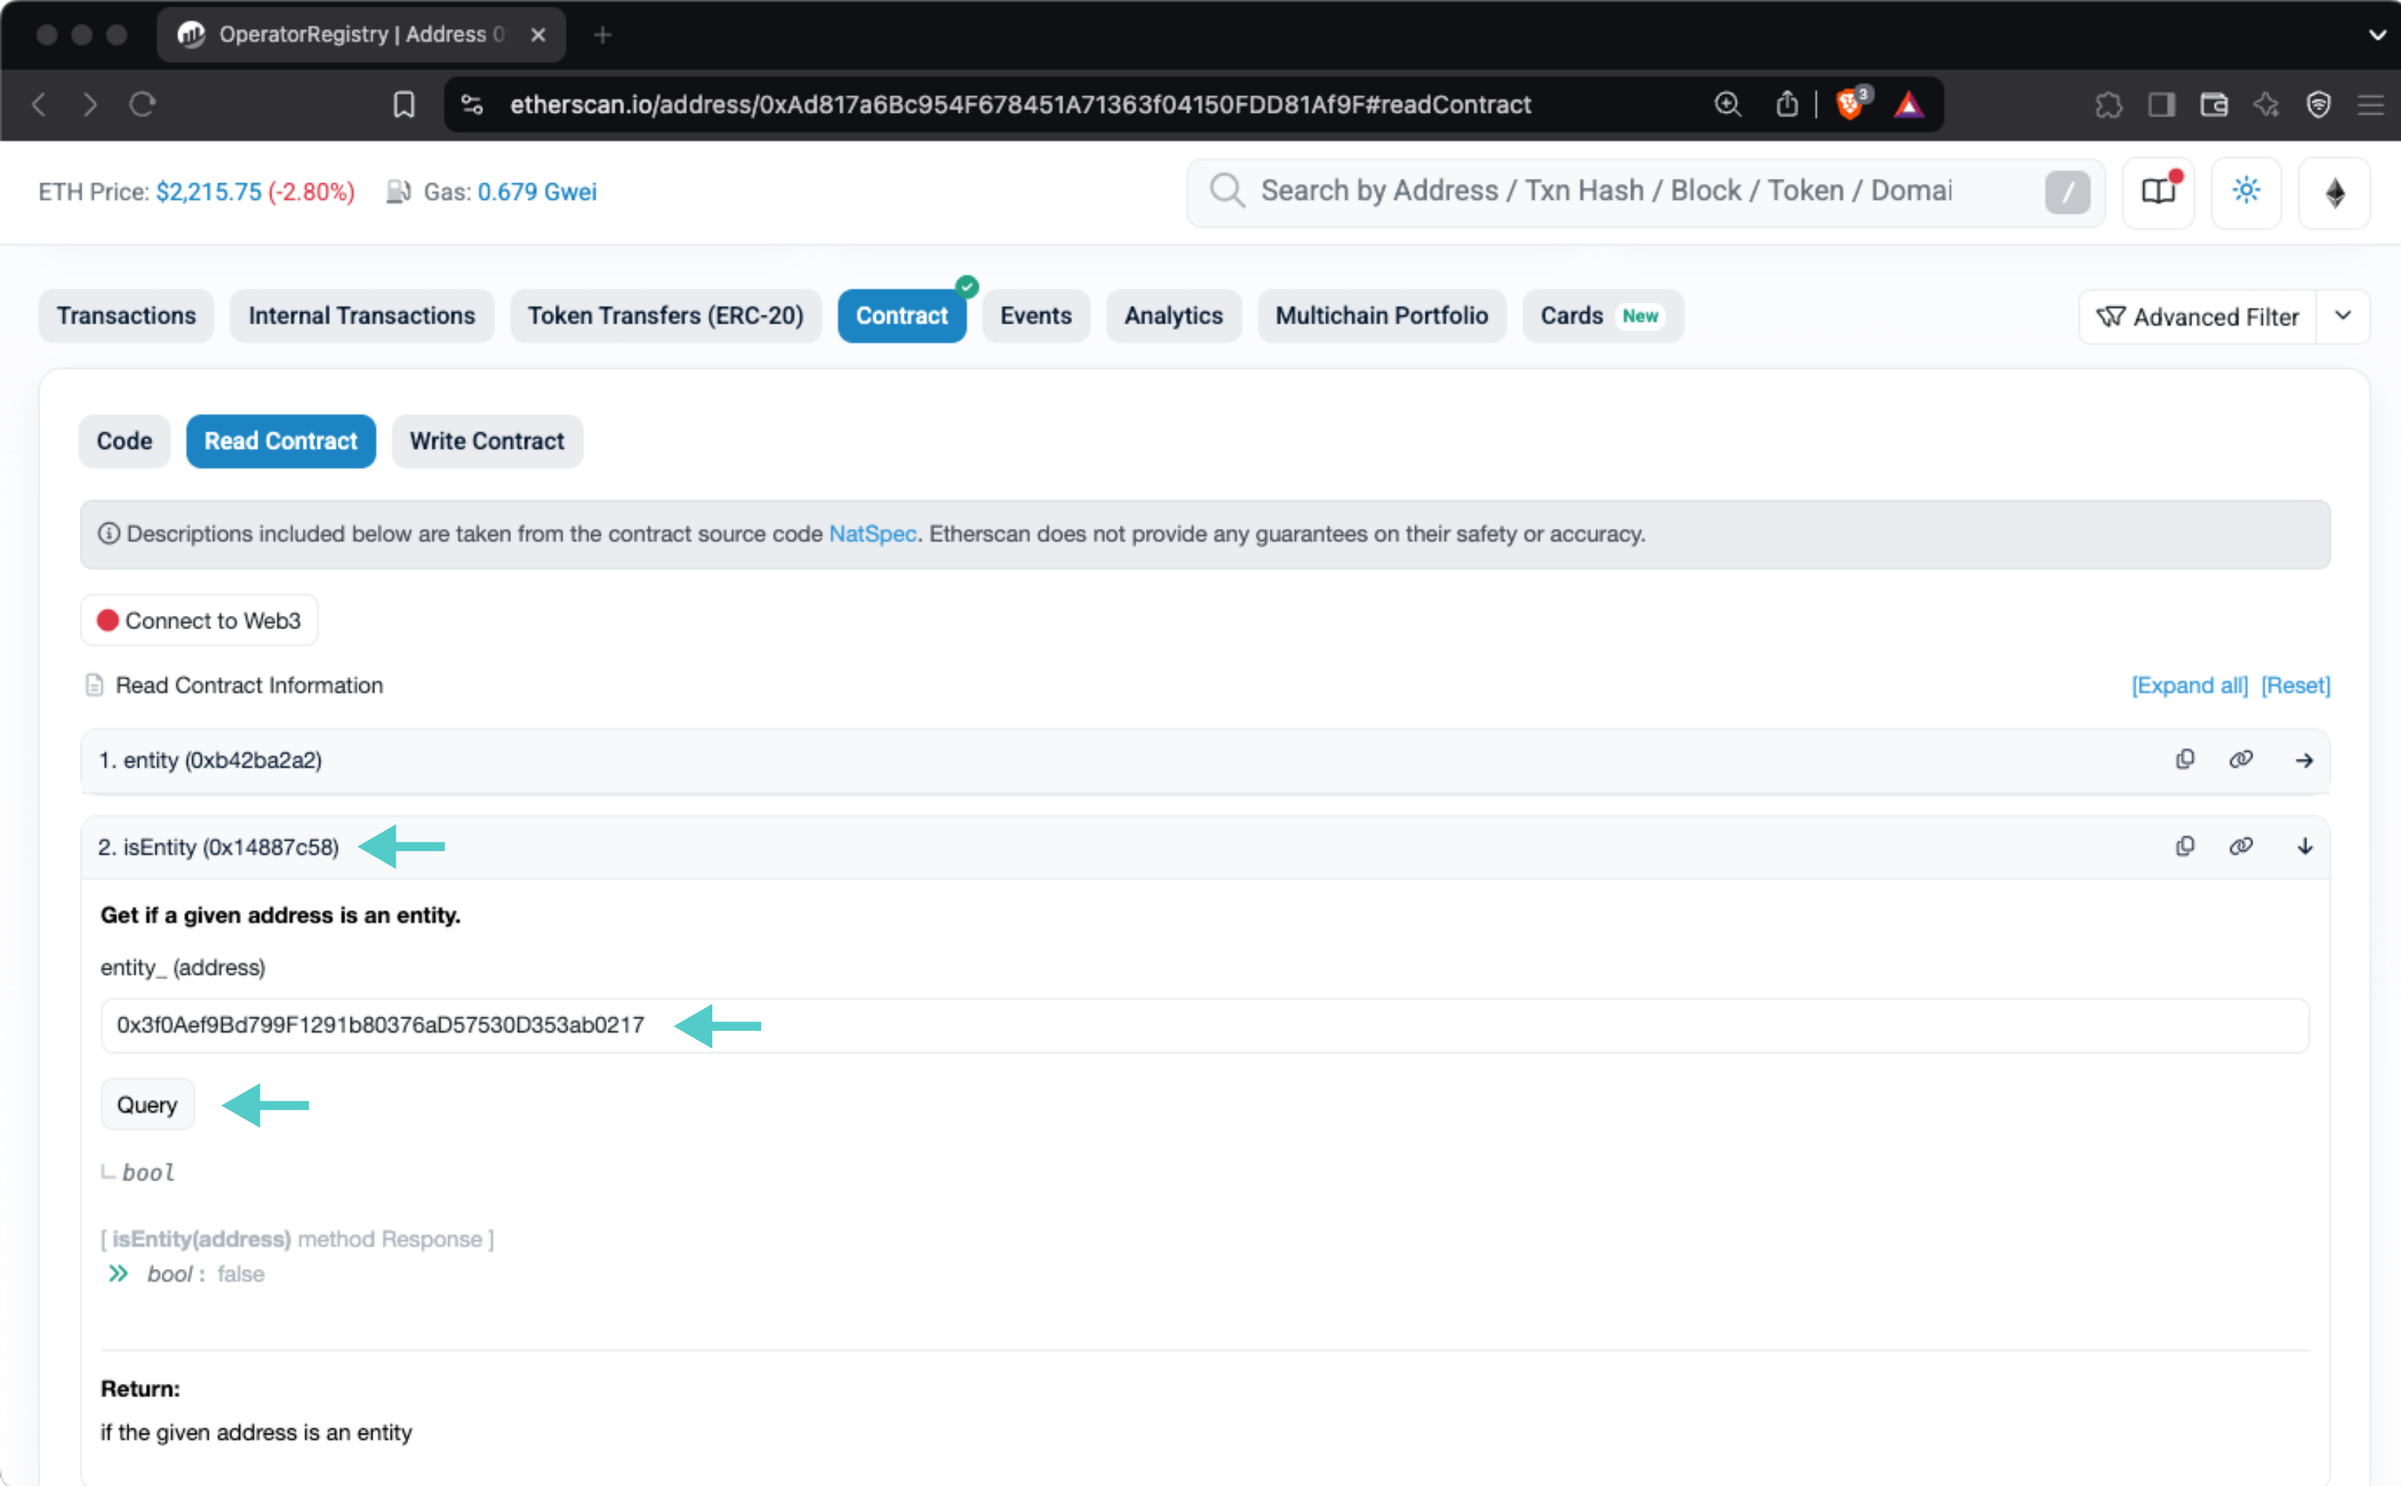
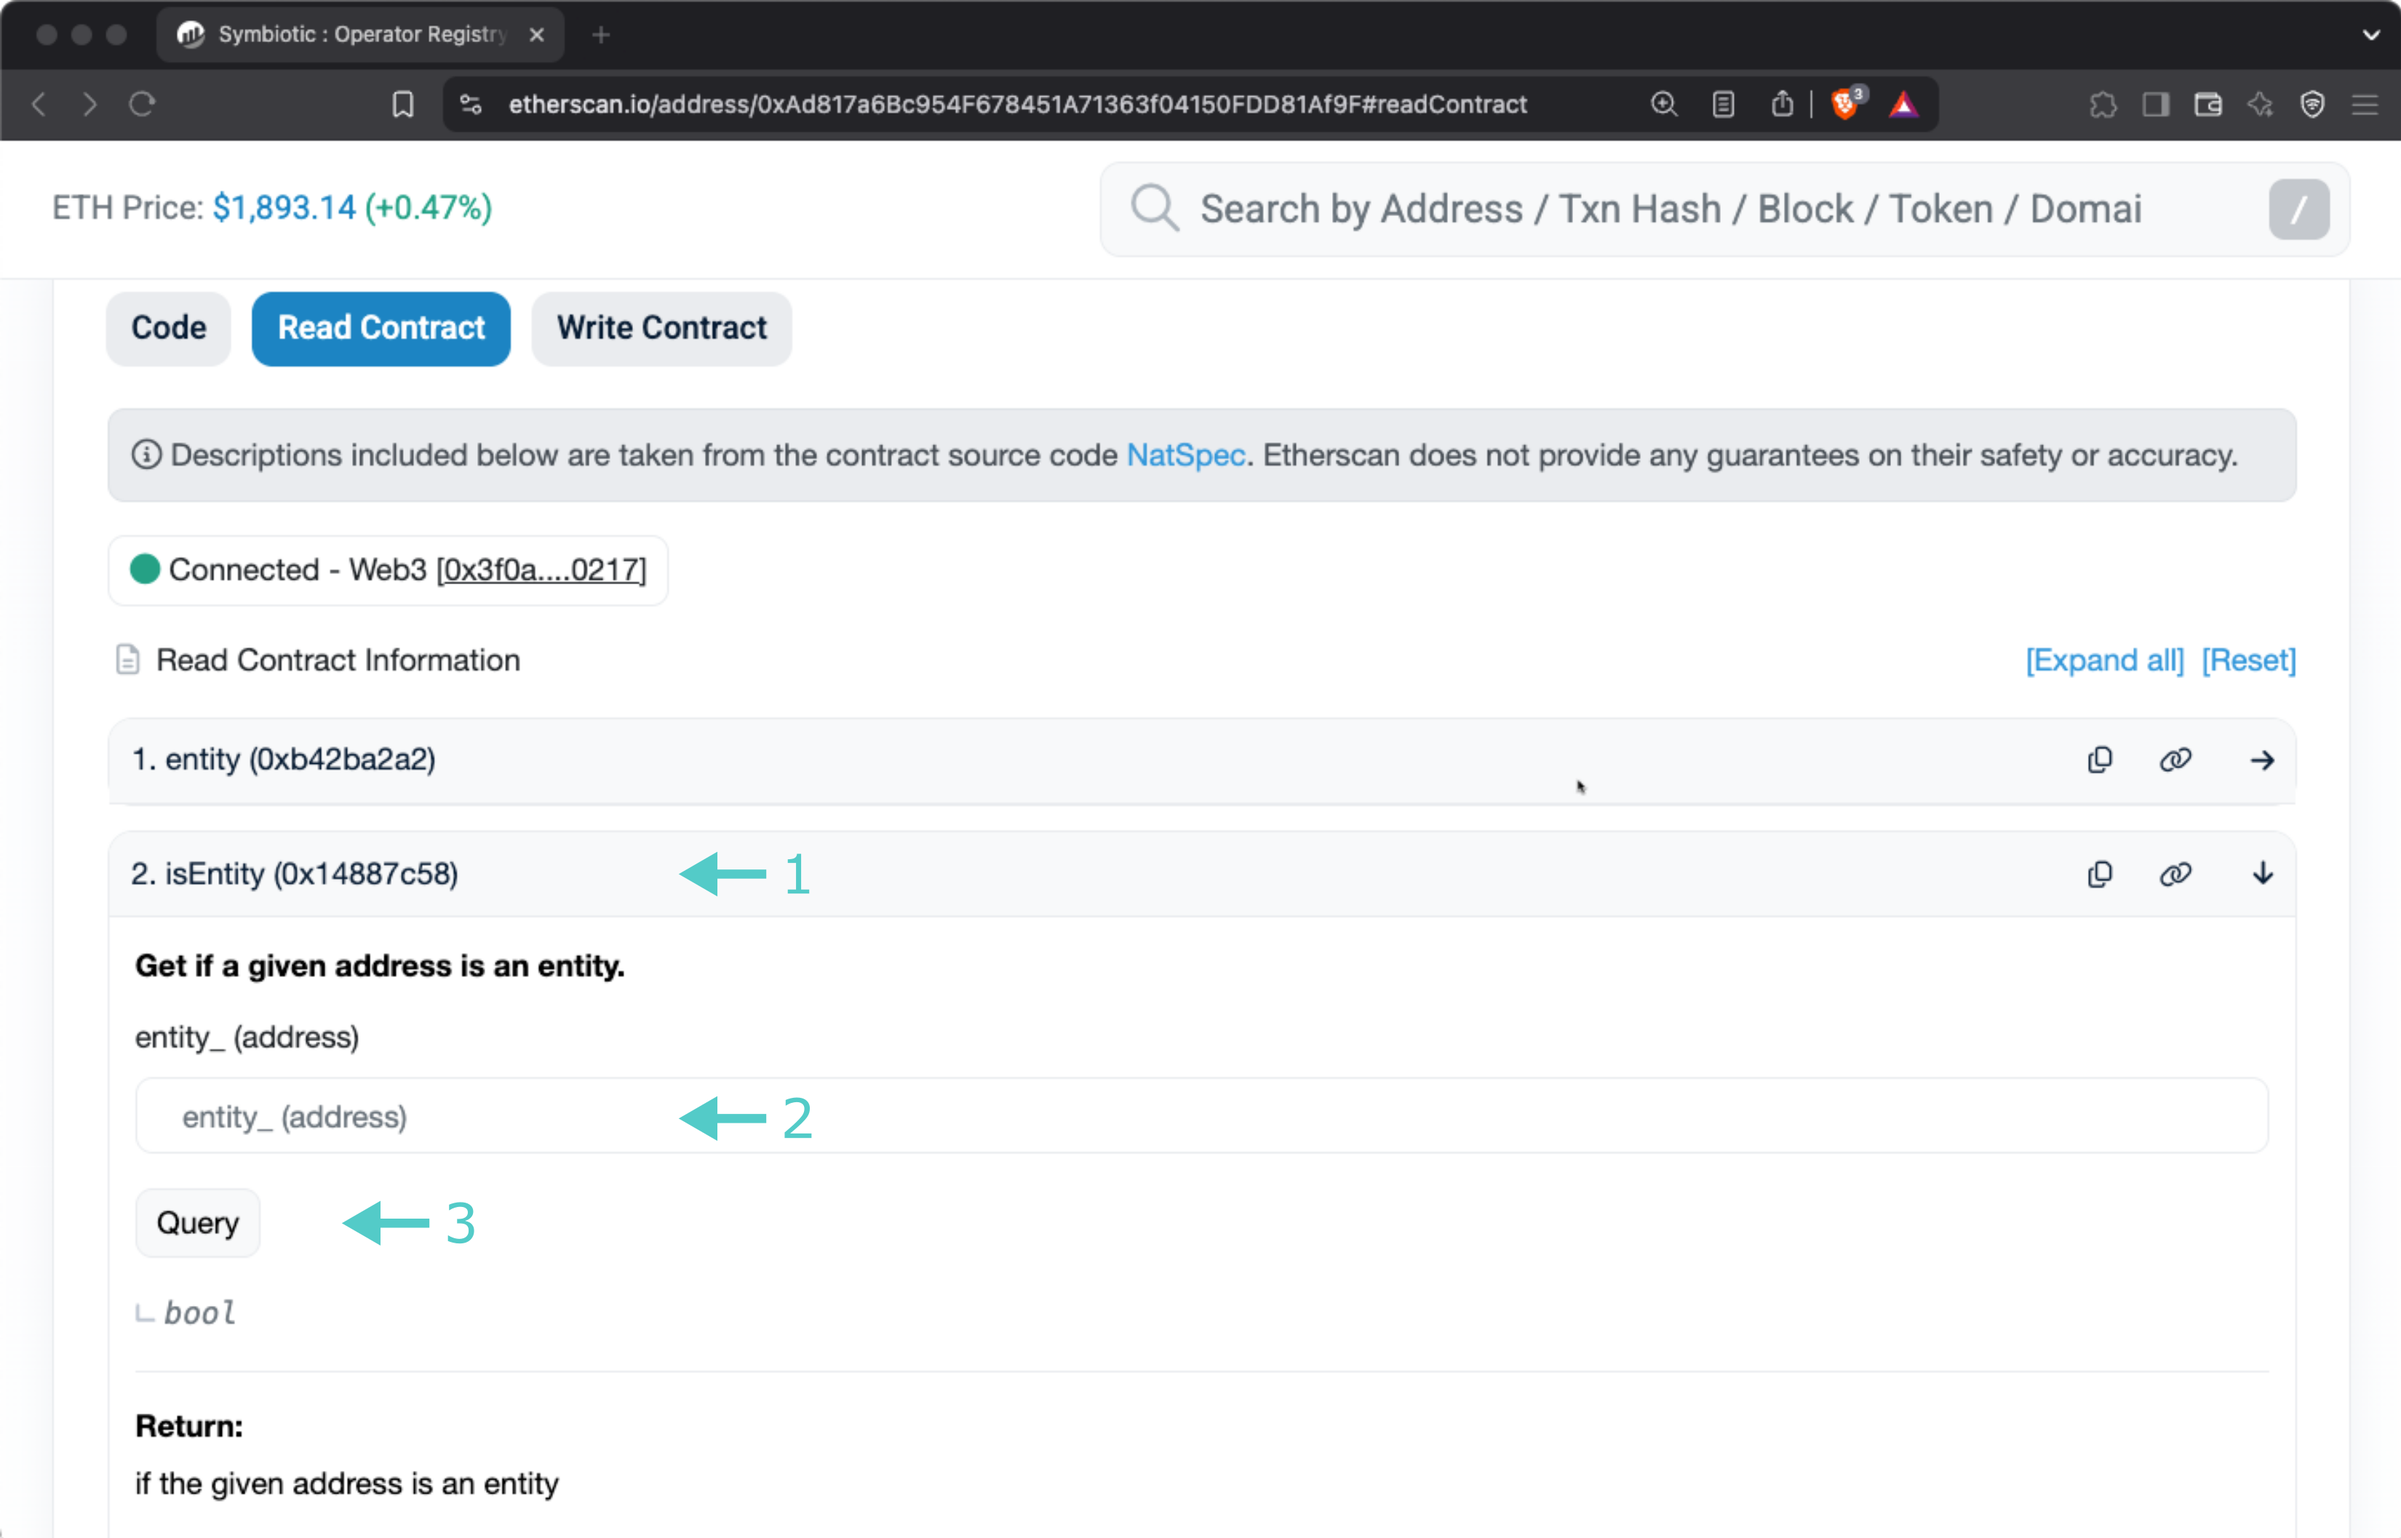
Symkbiotic's images

diff --git a/node-operators/validators/onboarding/register-in-symbiotic.md b/node-operators/validators/onboarding/register-in-symbiotic.md
@@ -76,7 +76,10 @@ Click on `Connect to Web3`, and select your preferred wallet (e.g. Metamask):
 !!! note
     You can configure Metamask to use a cold wallet.
 
-Once connected, expand the `registerOperator` function, click on `Write`, and sign the transaction.
+Once connected:
+
+1. Expand the `registerOperator` function
+2. Click on `Write`, and sign the transaction.
 
 ![Register the operator](/images/node-operators/validators/onboarding/register-in-symbiotic/register-in-symbiotic-2.webp)
 
@@ -106,7 +109,13 @@ You can quickly check your registration status on Etherscan. Open the following 
 
     [https://holesky.etherscan.io/address/{{ networks.symbiotic.contracts.holesky.operators_registry }}#readContract](https://holesky.etherscan.io/address/{{ networks.symbiotic.contracts.holesky.operators_registry }}#readContract){target=\_blank}
 
-Select the `isEntity` function, paste your operator's account, and click on `Query`. If your operator was registered correctly, you'll get a `true` result, and otherwise, `false`.
+On the contract's page:
+
+1. Select the `isEntity` function
+2. Paste your operator's account
+3. Click on `Query` 
+
+If your operator was registered correctly, you'll get a `true` result, and otherwise, `false`
 
 ![Check the registration status](/images/node-operators/validators/onboarding/register-in-symbiotic/register-in-symbiotic-3.webp)
 
